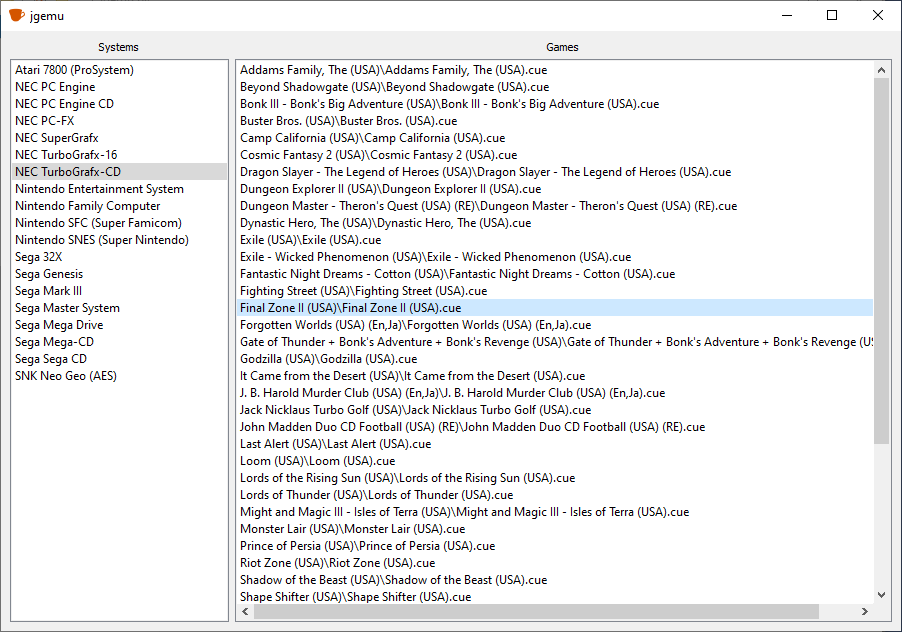
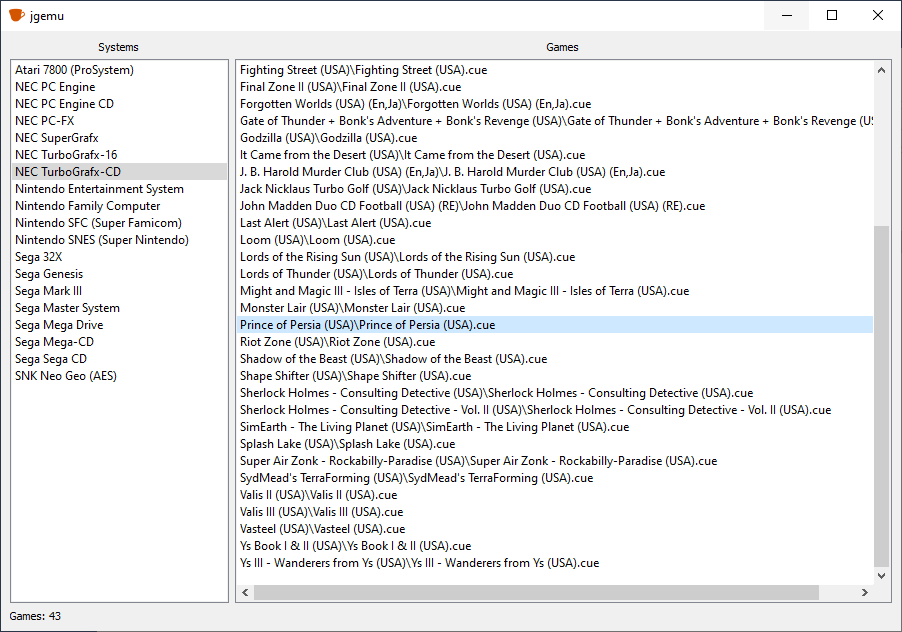
Add files via upload

Changed region(s): [[0.2483, 0.0902, 1.0, 1.0], [0.0, 0.962, 0.0931, 1.0]]

diff --git a/jgemu.py b/jgemu.py
@@ -58,6 +58,13 @@ class jgemu(QMainWindow):
         self.games_list.setVerticalScrollBar(self.games_scrollbar)
         self.systems_list.setFocus()
 
+        # --- Move games_count_label under systems list, all the way left ---
+        self.games_count_label = QLabel("Games: 0", self)
+        self.games_count_label.setAlignment(Qt.AlignLeft)
+        # Place the label at the bottom left under the systems list (row 2, column 0)
+        layout.addWidget(self.games_count_label, 2, 0)
+        # -------------------------------------------------------------------
+
     def set_main_window_bindings(self):
         self.systems_list.itemSelectionChanged.connect(self.on_platform_selection)
         self.games_list.itemDoubleClicked.connect(self.on_game_selection)
@@ -137,6 +144,9 @@ class jgemu(QMainWindow):
                     self.games_list.addItem(relative_path)
         if self.games_list.count() > 0:
             self.games_list.setCurrentRow(0)
+        # --- Update the games count label ---
+        self.games_count_label.setText(f"Games: {self.games_list.count()}")
+        # -------------------------------------
 
     def on_platform_selection(self):
         self.games_list.clear()
@@ -209,7 +219,7 @@ class jgemu(QMainWindow):
             self,
             "About",
             "jgemu\n"
-            "Version: 1.0.2\n"
+            "Version: 1.0.4\n"
             "Contact: gegecom83@gmail.com"
         )
 
